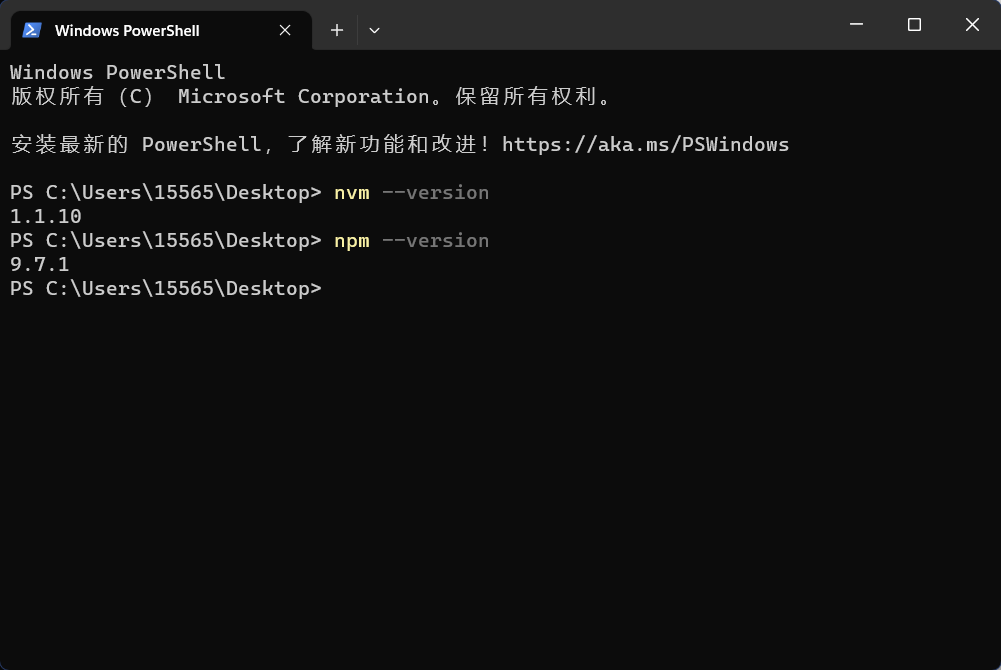
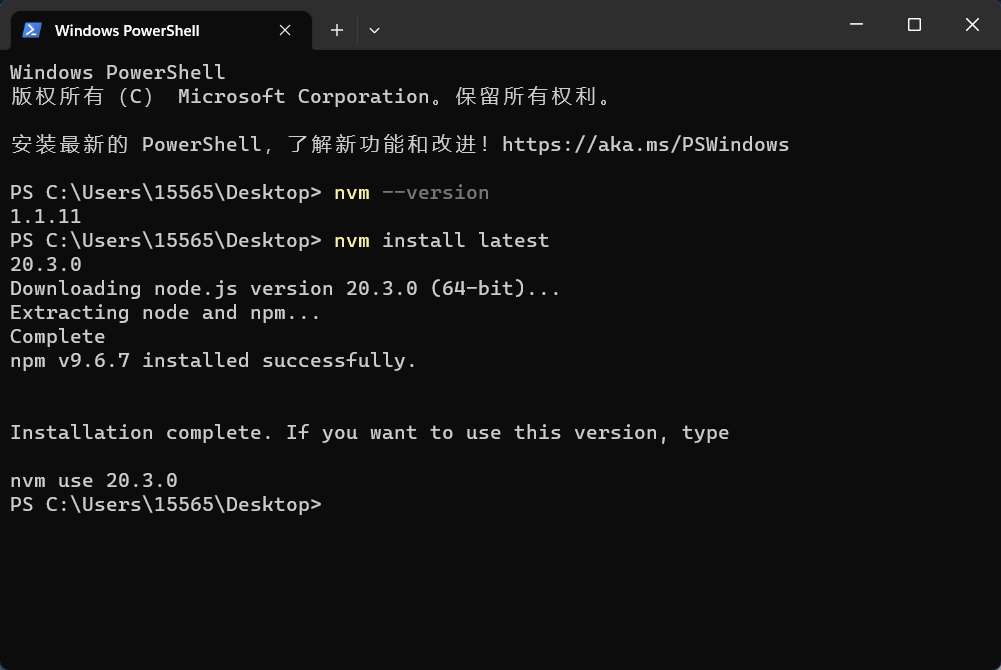
Site updated: 2023-06-19 19:04:15

diff --git a/2023/06/19/2023-数据库课设-环境配置-node-js/index.html b/2023/06/19/2023-数据库课设-环境配置-node-js/index.html
@@ -16,19 +16,24 @@
   <meta name="author" content="Yuan">
   <meta name="keywords" content="">
   
-    <meta name="description" content="这里使用 Node.ja Version Manager ( NVM ) 可以方便管理 Node.js 的版本，安装在自己电脑上 安装 NVMgithub 官网下载网址  安装包下载完后  双击运行安装在自己选的文件夹里 安装完后查看版本，可能和我的不一样 1nvm --version   安装  npmnode.js 的代码包管理器 下载最近版本的 npm1nvm install latest">
+    <meta name="description" content="这里使用 Node.ja Version Manager ( NVM ) 可以方便管理 Node.js 的版本，安装在自己电脑上 安装 NVMnvm 的版本要大于 1.1.10, 要不然报错 github 官网下载网址  安装包下载完后  next  next  安装完毕 打开 PowerShell查看版本 1nvm --version   安装  npmnode.js 的代码包管理器 下载最近版">
 <meta property="og:type" content="article">
 <meta property="og:title" content="2023 数据库课设-环境配置 node.js">
 <meta property="og:url" content="http://example.com/2023/06/19/2023-%E6%95%B0%E6%8D%AE%E5%BA%93%E8%AF%BE%E8%AE%BE-%E7%8E%AF%E5%A2%83%E9%85%8D%E7%BD%AE-node-js/index.html">
 <meta property="og:site_name" content="我的博客">
-<meta property="og:description" content="这里使用 Node.ja Version Manager ( NVM ) 可以方便管理 Node.js 的版本，安装在自己电脑上 安装 NVMgithub 官网下载网址  安装包下载完后  双击运行安装在自己选的文件夹里 安装完后查看版本，可能和我的不一样 1nvm --version   安装  npmnode.js 的代码包管理器 下载最近版本的 npm1nvm install latest">
+<meta property="og:description" content="这里使用 Node.ja Version Manager ( NVM ) 可以方便管理 Node.js 的版本，安装在自己电脑上 安装 NVMnvm 的版本要大于 1.1.10, 要不然报错 github 官网下载网址  安装包下载完后  next  next  安装完毕 打开 PowerShell查看版本 1nvm --version   安装  npmnode.js 的代码包管理器 下载最近版">
 <meta property="og:locale" content="zh_CN">
 <meta property="og:image" content="http://example.com/2023/06/19/2023-%E6%95%B0%E6%8D%AE%E5%BA%93%E8%AF%BE%E8%AE%BE-%E7%8E%AF%E5%A2%83%E9%85%8D%E7%BD%AE-node-js/node.png">
 <meta property="og:image" content="http://example.com/2023/06/19/2023-%E6%95%B0%E6%8D%AE%E5%BA%93%E8%AF%BE%E8%AE%BE-%E7%8E%AF%E5%A2%83%E9%85%8D%E7%BD%AE-node-js/do.png">
+<meta property="og:image" content="http://example.com/2023/06/19/2023-%E6%95%B0%E6%8D%AE%E5%BA%93%E8%AF%BE%E8%AE%BE-%E7%8E%AF%E5%A2%83%E9%85%8D%E7%BD%AE-node-js/mu.png">
+<meta property="og:image" content="http://example.com/2023/06/19/2023-%E6%95%B0%E6%8D%AE%E5%BA%93%E8%AF%BE%E8%AE%BE-%E7%8E%AF%E5%A2%83%E9%85%8D%E7%BD%AE-node-js/link.png">
 <meta property="og:image" content="http://example.com/2023/06/19/2023-%E6%95%B0%E6%8D%AE%E5%BA%93%E8%AF%BE%E8%AE%BE-%E7%8E%AF%E5%A2%83%E9%85%8D%E7%BD%AE-node-js/nvm.png">
 <meta property="og:image" content="http://example.com/2023/06/19/2023-%E6%95%B0%E6%8D%AE%E5%BA%93%E8%AF%BE%E8%AE%BE-%E7%8E%AF%E5%A2%83%E9%85%8D%E7%BD%AE-node-js/npm.png">
+<meta property="og:image" content="http://example.com/2023/06/19/2023-%E6%95%B0%E6%8D%AE%E5%BA%93%E8%AF%BE%E8%AE%BE-%E7%8E%AF%E5%A2%83%E9%85%8D%E7%BD%AE-node-js/use.png">
+<meta property="og:image" content="http://example.com/2023/06/19/2023-%E6%95%B0%E6%8D%AE%E5%BA%93%E8%AF%BE%E8%AE%BE-%E7%8E%AF%E5%A2%83%E9%85%8D%E7%BD%AE-node-js/ver.png">
+<meta property="og:image" content="http://example.com/2023/06/19/2023-%E6%95%B0%E6%8D%AE%E5%BA%93%E8%AF%BE%E8%AE%BE-%E7%8E%AF%E5%A2%83%E9%85%8D%E7%BD%AE-node-js/yuan.png">
 <meta property="article:published_time" content="2023-06-19T09:08:14.000Z">
-<meta property="article:modified_time" content="2023-06-19T10:08:53.600Z">
+<meta property="article:modified_time" content="2023-06-19T10:46:54.144Z">
 <meta property="article:author" content="Yuan">
 <meta name="twitter:card" content="summary_large_image">
 <meta name="twitter:image" content="http://example.com/2023/06/19/2023-%E6%95%B0%E6%8D%AE%E5%BA%93%E8%AF%BE%E8%AE%BE-%E7%8E%AF%E5%A2%83%E9%85%8D%E7%BD%AE-node-js/node.png">
@@ -223,7 +228,7 @@
       <span class="post-meta mr-2">
         <i class="iconfont icon-chart"></i>
         
-          264 字
+          476 字
         
       </span>
     
@@ -234,7 +239,7 @@
         
         
         
-          3 分钟
+          4 分钟
         
       </span>
     
@@ -278,22 +283,44 @@
               <div class="markdown-body">
                 
                 <p>这里使用 Node.ja Version Manager ( NVM ) 可以方便管理 Node.js 的版本，安装在自己电脑上</p>
-<h2 id="安装-NVM"><a href="#安装-NVM" class="headerlink" title="安装 NVM"></a>安装 NVM</h2><p><a target="_blank" rel="noopener" href="https://github.com/coreybutler/nvm-windows/releases">github 官网下载网址</a></p>
+<h2 id="安装-NVM"><a href="#安装-NVM" class="headerlink" title="安装 NVM"></a>安装 NVM</h2><p>nvm 的版本要大于 1.1.10, 要不然<a target="_blank" rel="noopener" href="https://github.com/coreybutler/nvm-windows/issues/984">报错</a></p>
+<p><a target="_blank" rel="noopener" href="https://github.com/coreybutler/nvm-windows/releases">github 官网下载网址</a></p>
 <p><img src="/2023/06/19/2023-%E6%95%B0%E6%8D%AE%E5%BA%93%E8%AF%BE%E8%AE%BE-%E7%8E%AF%E5%A2%83%E9%85%8D%E7%BD%AE-node-js/node.png" srcset="/img/loading.gif" lazyload></p>
 <p>安装包下载完后</p>
 <p><img src="/2023/06/19/2023-%E6%95%B0%E6%8D%AE%E5%BA%93%E8%AF%BE%E8%AE%BE-%E7%8E%AF%E5%A2%83%E9%85%8D%E7%BD%AE-node-js/do.png" srcset="/img/loading.gif" lazyload></p>
-<p>双击运行安装在自己选的文件夹里</p>
-<p>安装完后查看版本，可能和我的不一样</p>
+<p>next</p>
+<p><img src="/2023/06/19/2023-%E6%95%B0%E6%8D%AE%E5%BA%93%E8%AF%BE%E8%AE%BE-%E7%8E%AF%E5%A2%83%E9%85%8D%E7%BD%AE-node-js/mu.png" srcset="/img/loading.gif" lazyload></p>
+<p>next</p>
+<p><img src="/2023/06/19/2023-%E6%95%B0%E6%8D%AE%E5%BA%93%E8%AF%BE%E8%AE%BE-%E7%8E%AF%E5%A2%83%E9%85%8D%E7%BD%AE-node-js/link.png" srcset="/img/loading.gif" lazyload></p>
+<p>安装完毕</p>
+<p>打开 PowerShell查看版本</p>
 <figure class="highlight ada"><table><tr><td class="gutter"><pre><span class="line">1</span><br></pre></td><td class="code"><pre><code class="hljs ada">nvm <span class="hljs-comment">--version</span><br></code></pre></td></tr></table></figure>
 
 <p><img src="/2023/06/19/2023-%E6%95%B0%E6%8D%AE%E5%BA%93%E8%AF%BE%E8%AE%BE-%E7%8E%AF%E5%A2%83%E9%85%8D%E7%BD%AE-node-js/nvm.png" srcset="/img/loading.gif" lazyload></p>
 <h3 id="安装-npm"><a href="#安装-npm" class="headerlink" title="安装  npm"></a>安装  npm</h3><p>node.js 的代码包管理器</p>
-<h4 id="下载最近版本的-npm"><a href="#下载最近版本的-npm" class="headerlink" title="下载最近版本的 npm"></a>下载最近版本的 npm</h4><figure class="highlight shell"><table><tr><td class="gutter"><pre><span class="line">1</span><br></pre></td><td class="code"><pre><code class="hljs shell">nvm install latest <br></code></pre></td></tr></table></figure>
+<h4 id="下载最近版本的-npm-node"><a href="#下载最近版本的-npm-node" class="headerlink" title="下载最近版本的 npm + node"></a>下载最近版本的 npm + node</h4><figure class="highlight shell"><table><tr><td class="gutter"><pre><span class="line">1</span><br></pre></td><td class="code"><pre><code class="hljs shell">nvm install latest <br></code></pre></td></tr></table></figure>
 
-<p>等待安装</p>
-<h4 id="查看-npm-版本"><a href="#查看-npm-版本" class="headerlink" title="查看 npm 版本"></a>查看 npm 版本</h4><p><img src="/2023/06/19/2023-%E6%95%B0%E6%8D%AE%E5%BA%93%E8%AF%BE%E8%AE%BE-%E7%8E%AF%E5%A2%83%E9%85%8D%E7%BD%AE-node-js/npm.png" srcset="/img/loading.gif" lazyload></p>
+<p><img src="/2023/06/19/2023-%E6%95%B0%E6%8D%AE%E5%BA%93%E8%AF%BE%E8%AE%BE-%E7%8E%AF%E5%A2%83%E9%85%8D%E7%BD%AE-node-js/npm.png" srcset="/img/loading.gif" lazyload></p>
+<h4 id="使用安装的-node-用提示的版本"><a href="#使用安装的-node-用提示的版本" class="headerlink" title="使用安装的 node 用提示的版本"></a>使用安装的 node 用提示的版本</h4><figure class="highlight shell"><table><tr><td class="gutter"><pre><span class="line">1</span><br></pre></td><td class="code"><pre><code class="hljs shell">nvm use xxx<br></code></pre></td></tr></table></figure>
+
+<p><img src="/2023/06/19/2023-%E6%95%B0%E6%8D%AE%E5%BA%93%E8%AF%BE%E8%AE%BE-%E7%8E%AF%E5%A2%83%E9%85%8D%E7%BD%AE-node-js/use.png" srcset="/img/loading.gif" lazyload></p>
+<h4 id="查看-npm-node-版本"><a href="#查看-npm-node-版本" class="headerlink" title="查看 npm node 版本"></a>查看 npm node 版本</h4><figure class="highlight crmsh"><table><tr><td class="gutter"><pre><span class="line">1</span><br><span class="line">2</span><br></pre></td><td class="code"><pre><code class="hljs crmsh"><span class="hljs-keyword">node</span> <span class="hljs-title">--version</span><br>npm --<span class="hljs-keyword">version</span><br></code></pre></td></tr></table></figure>
+
+<p><img src="/2023/06/19/2023-%E6%95%B0%E6%8D%AE%E5%BA%93%E8%AF%BE%E8%AE%BE-%E7%8E%AF%E5%A2%83%E9%85%8D%E7%BD%AE-node-js/ver.png" srcset="/img/loading.gif" lazyload></p>
 <p>显示版本号即可</p>
-<h3 id="安装-Node-js"><a href="#安装-Node-js" class="headerlink" title="安装 Node.js"></a>安装 Node.js</h3><p>运行 javascript 的环境</p>
+<h4 id="配置默认下载-node-版本的国内仓库地址"><a href="#配置默认下载-node-版本的国内仓库地址" class="headerlink" title="配置默认下载 node 版本的国内仓库地址"></a>配置默认下载 node 版本的国内仓库地址</h4><p>因为默认下载地址是国外，速度慢</p>
+<figure class="highlight arduino"><table><tr><td class="gutter"><pre><span class="line">1</span><br><span class="line">2</span><br></pre></td><td class="code"><pre><code class="hljs arduino">https:<span class="hljs-comment">//registry.npm.taobao.org</span><br>npm config get registry #查看<br></code></pre></td></tr></table></figure>
+
+<p><img src="/2023/06/19/2023-%E6%95%B0%E6%8D%AE%E5%BA%93%E8%AF%BE%E8%AE%BE-%E7%8E%AF%E5%A2%83%E9%85%8D%E7%BD%AE-node-js/yuan.png" srcset="/img/loading.gif" lazyload></p>
+<p>最终显示 <a target="_blank" rel="noopener" href="https://registry.npm.taobao.org/">https://registry.npm.taobao.org</a> </p>
+<p>配置完成，以下作为参考</p>
+<h3 id="查看-nvm-帮助命令"><a href="#查看-nvm-帮助命令" class="headerlink" title="查看 nvm 帮助命令"></a>查看 nvm 帮助命令</h3><p>一些有用的命令</p>
+<figure class="highlight ada"><table><tr><td class="gutter"><pre><span class="line">1</span><br></pre></td><td class="code"><pre><code class="hljs ada">nvm <span class="hljs-comment">--help</span><br></code></pre></td></tr></table></figure>
+
+
+
+
+
 <h2 id="参考教程"><a href="#参考教程" class="headerlink" title="参考教程"></a>参考教程</h2><blockquote>
 <p><a target="_blank" rel="noopener" href="https://dev.to/skaytech/how-to-install-node-version-manager-nvm-for-windows-10-4nbi">How to install Node Version Manager (NVM) for Windows 10?</a></p>
 </blockquote>

diff --git a/index.html b/index.html
@@ -231,7 +231,7 @@
       
       <a class="index-excerpt index-excerpt__noimg" href="/2023/06/19/2023-%E6%95%B0%E6%8D%AE%E5%BA%93%E8%AF%BE%E8%AE%BE-%E7%8E%AF%E5%A2%83%E9%85%8D%E7%BD%AE-node-js/" target="_self">
         <div>
-          这里使用 Node.ja Version Manager ( NVM ) 可以方便管理 Node.js 的版本，安装在自己电脑上 安装 NVMgithub 官网下载网址  安装包下载完后  双击运行安装在自己选的文件夹里 安装完后查看版本，可能和我的不一样 1nvm --version   安装  npmnode.js 的代码包管理器 下载最近版本的 npm1nvm install latest
+          这里使用 Node.ja Version Manager ( NVM ) 可以方便管理 Node.js 的版本，安装在自己电脑上 安装 NVMnvm 的版本要大于 1.1.10, 要不然报错 github 官网下载网址  安装包下载完后  next  next  安装完毕 打开 PowerShell查看版本 1nvm --version   安装  npmnode.js 的代码包管理器 下载最近版
         </div>
       </a>
 
